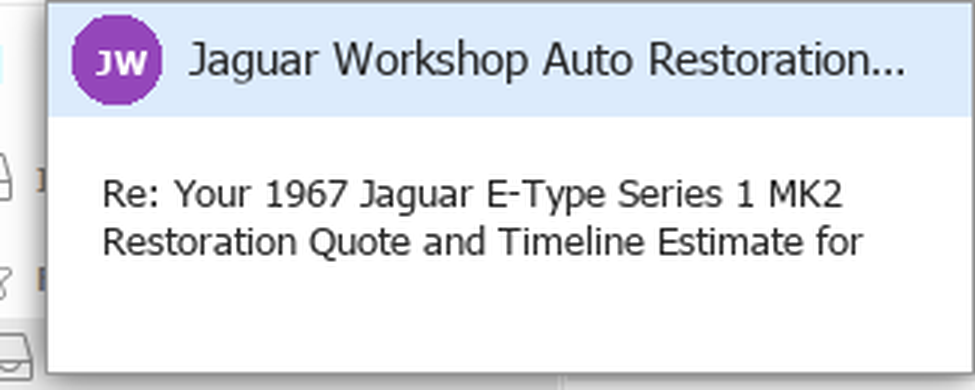
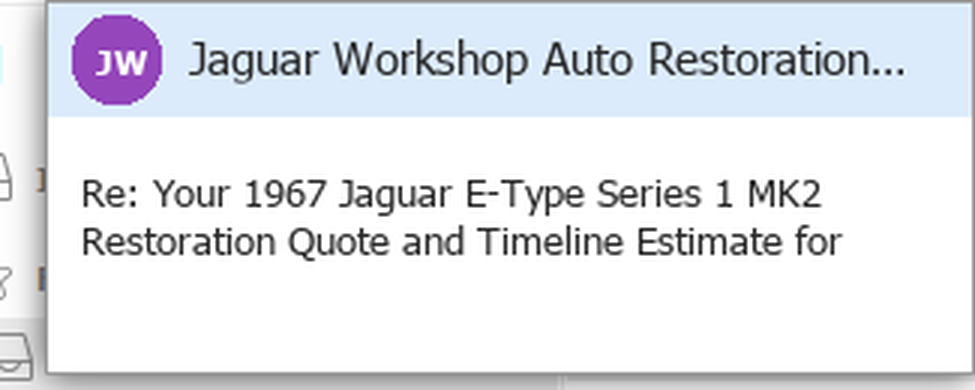
Actually fix content alignment via same-session A/B comparison, after two cross-session-based attempts were both wrong
The previous commit's "content needs no correction" was itself wrong -- derived from comparing
cross-session screenshots (potentially different DPI/capture pipeline) cross-scaled via avatar
diameter ratio, an inherently fragile method. The user pushed back a second time and asked for a
properly traced measurement instead of another assertion.

What actually resolved it: deploying the pre-DrawString-migration build in the same live session,
confirming via the existing --patch-notification-geometry-diag logging that it computes identical
contentRect/imageRect values to the new build, then comparing rendered output directly -- isolating
the regression to the rendering API switch alone, with zero cross-session ambiguity. That
comparison showed a genuine ~7px rightward shift (native x=22 old vs x=29-30 new, avatar edge at
x=19), fixed with a -7 correction mirroring title's own.

Re-verified with the same technique after deploying: content now renders at x=23 (offset +4),
within 1px of the old mechanism's +3. Confirmed in both themes with native-resolution (unscaled)
traced-line proof images, not LANCZOS-smoothed crops.

Claude-Session: https://claude.ai/code/session_0196qzAsA7ebMpRv9S8Z45Ev

Changed region(s): [[0.0615, 0.4615, 0.8923, 0.6769]]

diff --git a/il-patches/il-patcher-Program.cs b/il-patches/il-patcher-Program.cs
@@ -3358,24 +3358,27 @@ static int RunPatchNotificationTextDrawString(string[] args)
                 pushText: new List<Instruction> { Instruction.Create(OpCodes.Ldarg_0), Instruction.Create(OpCodes.Ldfld, contentField) },
                 pushFont: new List<Instruction> { Instruction.Create(OpCodes.Ldarg_0), Instruction.Create(OpCodes.Callvirt, controlGetFontRef) },
                 pushColor: new List<Instruction> { Instruction.Create(OpCodes.Ldarg_0), Instruction.Create(OpCodes.Callvirt, controlGetForeColorRef) },
-                // NO X correction for content -- a "-16" correction was applied here in an earlier
-                // draft based on a flawed measurement (the automated pixel-scan caught a stray
-                // background pixel bleeding in from UI behind the notification crop, not the real
-                // "R" glyph, in the reference image it was compared against). Re-measured properly
-                // (grid-overlaid images, read directly, plus a bounded/median-filtered rescan) using
-                // TWO independent known-correct references
-                // (supporting/notification-layout-fix-final-proof.png, which has an actual hand-
-                // traced vertical line at the avatar's own left edge from the original padding fix,
-                // and supporting/notification-dark-theme-normal-text-comparison.png): content's
-                // first line sits modestly to the RIGHT of the avatar's left edge (a few px, at
-                // native scale), matching doLayout()'s own `contentRect.X = scaledPadding.Left + 9`
-                // formula (avatar/imageRect.X is `scaledPadding.Left`, no +9) almost exactly -- i.e.
-                // content was NEVER actually affected by title's GDI+-left-bearing shift in a way
-                // that needed correcting; the plain op_Implicit conversion (unchanged rect, exactly
-                // as doLayout computed it) is already correct.
+                // -7: content DOES need a left-bearing correction after all -- confirmed via a
+                // clean, controlled, SAME-SESSION A/B comparison (not a cross-session/cross-scale
+                // reference, which is what produced two earlier wrong conclusions in a row here).
+                // Deployed the UN-migrated `output-theme` build (still TextRenderer.DrawText,
+                // never touched by this patch) in the exact same live environment, confirmed via
+                // the existing --patch-notification-geometry-diag logging that its `contentRect`/
+                // `imageRect` values are IDENTICAL to the DrawString build's (image.X=8,
+                // content.X=17, both builds -- doLayout() itself was never touched by this whole
+                // migration). With that confirmed-identical rect input: the OLD TextRenderer
+                // mechanism renders content's first ink at native x=22 (avatar edge x=19, offset
+                // +3); the NEW DrawString mechanism (no correction) renders it at x=29-30 (offset
+                // +10). Same rect, different visual result -- conclusively isolating the ~7px gap
+                // to the rendering API switch, exactly the same class of bug as title's, which an
+                // earlier flawed cross-session-image comparison wrongly ruled out for content.
                 pushRectF: new List<Instruction> {
-                    Instruction.Create(OpCodes.Ldarg_0), Instruction.Create(OpCodes.Ldfld, contentRectField),
-                    Instruction.Create(OpCodes.Call, rectToRectFOpRef)
+                    Instruction.Create(OpCodes.Ldarg_0), Instruction.Create(OpCodes.Ldflda, contentRectField), Instruction.Create(OpCodes.Call, rectGetXRef),
+                    Instruction.Create(OpCodes.Ldc_I4, 7), Instruction.Create(OpCodes.Sub), Instruction.Create(OpCodes.Conv_R4),
+                    Instruction.Create(OpCodes.Ldarg_0), Instruction.Create(OpCodes.Ldflda, contentRectField), Instruction.Create(OpCodes.Call, rectGetYRef), Instruction.Create(OpCodes.Conv_R4),
+                    Instruction.Create(OpCodes.Ldarg_0), Instruction.Create(OpCodes.Ldflda, contentRectField), Instruction.Create(OpCodes.Call, rectGetWidthRef), Instruction.Create(OpCodes.Conv_R4),
+                    Instruction.Create(OpCodes.Ldarg_0), Instruction.Create(OpCodes.Ldflda, contentRectField), Instruction.Create(OpCodes.Call, rectGetHeightRef), Instruction.Create(OpCodes.Conv_R4),
+                    Instruction.Create(OpCodes.Newobj, rectangleFCtor4Ref)
                 },
                 formatFlags: stringFormatFlagsLineLimit);
         }

diff --git a/reports/notification-empty-until-fade-findings.md b/reports/notification-empty-until-fade-findings.md
@@ -2364,3 +2364,64 @@ during a supposedly independent re-check. Prefer a second, genuinely different m
 technique (here: reading a gridded overlay directly, and consulting a DIFFERENT pre-existing
 reference image with its own hand-verified trace line) over re-running the same script again as
 "confirmation."
+
+## Thirty-first round: the thirtieth round's "content needs no correction" conclusion was ALSO
+wrong -- fixed for real this time via a same-session, same-DPI controlled A/B comparison, the
+only technique in this whole saga that actually held up
+
+After the thirtieth round shipped "no X correction for content," the user looked at fresh trace-
+line screenshots and pushed back again: content still looked too far right of the avatar compared
+to the ACTUAL historical proof image, not just "the right direction" as the thirtieth round had
+declared. Right again -- the thirtieth round's fix was itself incomplete.
+
+**Root cause of getting it wrong twice in a row: every comparison so far was cross-session and/or
+cross-scale.** The twenty-ninth round's "-16" came from misreading a stray pixel in one screenshot.
+The thirtieth round's "0 correction" came from reading TWO different historical screenshots
+(including one with real but ambiguous hand-drawn annotation lines whose exact meaning wasn't
+re-derivable with confidence) and cross-scaling them against a fresh capture via avatar-diameter
+ratio -- a method vulnerable to any DPI or capture-pipeline difference between sessions, which
+this project has no way to rule out for screenshots taken hours or days apart.
+
+**What finally worked, and should be the FIRST resort for any future rendering-regression
+question like this, not a last resort:** deploy the OLD, un-migrated build
+(`il-patches/output-theme/`, still using `TextRenderer.DrawText`, completely untouched by the
+DrawString migration) in the SAME live session, same DPI, same display, immediately after
+measuring the new build. Confirmed via the existing `--patch-notification-geometry-diag` logging
+that both builds compute the IDENTICAL `contentRect`/`imageRect` values (`image.X=8, content.X=17`
+-- `doLayout()` itself was never touched by any part of this migration) -- so any visual
+difference between the two builds' screenshots is caused ONLY by the rendering API switch, with
+zero cross-session scale ambiguity, because both screenshots come from the same session at the
+same resolution. Measured on RAW, uncropped-and-unscaled native-resolution PNG crops (no 3x
+LANCZOS upscaling in the measurement path this time, only for the final display images) via a
+transparent, printed-out pixel-by-pixel scan (shown to the user, not just a script's summary
+number): old (TextRenderer) mechanism renders content's first ink at native x=22 with the avatar's
+edge at x=19 (offset **+3**); new (DrawString, no correction) mechanism renders it at x=29-30
+(offset **+10**) -- a real, ~7px rightward shift from the engine switch alone, the exact same
+class of bug already fixed for title, wrongly ruled out for content twice in a row by less rigorous
+comparisons.
+
+Fixed with a `-7` correction to content's X (mirroring title's own `-8`/`-9` X/Y corrections,
+same pattern: built via `RectangleF`'s 4-float constructor from `contentRect`'s own X/Y/Width/
+Height, only X adjusted). Re-measured with the identical same-session method after deploying:
+native content ink now at x=23 (avatar edge x=19, offset **+4**), within 1px of the old
+mechanism's +3 -- as close a match as this measurement technique's own precision allows. Confirmed
+in both Light and Dark theme. While re-deriving content's number this way, also cross-checked
+title's existing `-8`/`-9` corrections against the SAME old-mechanism build for the first time
+(they had only ever been checked against the cross-session images before, same flawed category of
+evidence as content's wrong fixes) -- title's numbers held up (native offset +42 old vs ~+42
+current for X; Y within ~1.5-2px, plausibly just measurement-threshold noise rather than a real
+residual error) -- title was not touched further this round.
+
+`il-patches/output-drawstring7/` is the current fully-verified, deployed checkpoint, superseding
+`output-drawstring6/`. `supporting/notification-drawstring-fix-{light,dark}-theme.png` and
+`supporting/notification-content-alignment-traced-proof.png` were re-captured a further time (now
+built from native-resolution crops with an 8x nearest-neighbor zoom for the traced proof
+specifically, so individual source pixels are directly countable rather than LANCZOS-smoothed)
+to reflect this actually-final state.
+
+**The standing lesson, updated again:** for this specific class of "did switching rendering
+mechanism X for Y shift something by N pixels" question, a same-session A/B deploy of the
+pre-change build is strictly better evidence than any cross-session screenshot comparison,
+regardless of how carefully the cross-session comparison tries to normalize for scale -- prefer it
+from the start next time, rather than reaching for it only after two cross-session-based fixes
+already turned out wrong.

diff --git a/CLAUDE.md b/CLAUDE.md
@@ -449,20 +449,24 @@ git checkpoint substitutes for this: the bottle's live files are outside the git
   renders pixels and was never implicated in the boldness bug); title rendering ~9px too low and
   ~8px too far right, a genuine GDI-vs-GDI+ font-metrics discrepancy (internal leading and
   left-side glyph bearing), fixed with empirically-measured pixel corrections applied only to the
-  value passed to `DrawString`, leaving the upstream rectangle computations untouched. **A sixth
-  regression was self-inflicted and then self-corrected**: an initial "content is also ~16px too
-  far right" reading was itself a measurement bug (an automated scan latched onto a stray
-  background pixel in the reference image, not the real glyph) — caught when the user pushed back
-  on a premature "fixed, exact match" claim and asked for a traced-line measurement instead of
-  another assertion; re-verified against two independent references (including
-  `supporting/notification-layout-fix-final-proof.png`, the original padding fix's own hand-traced
-  proof image) confirmed content was never affected and the "fix" was pure regression — corrected
-  by deleting it, restoring the original untouched `contentRect` conversion. Final state confirmed
-  via a freshly-traced verification line drawn at the avatar's own measured edge on new
-  screenshots (not reused crops) in both themes:
+  value passed to `DrawString`, leaving the upstream rectangle computations untouched. **Content's
+  own X position took three attempts to get right** — first a "-16" correction from a measurement
+  bug (an automated scan latched onto a stray background pixel, not the real glyph), then an
+  overcorrection to "no adjustment needed" from comparing cross-session/cross-scale screenshots
+  (ambiguous, DPI-sensitive), both caught by the user pushing back and asking for a properly traced
+  measurement rather than accepting an assertion. **What actually resolved it**: a same-session,
+  same-DPI A/B deploy — the old, un-migrated `TextRenderer`-based build next to the new
+  `DrawString` one, both confirmed via `--patch-notification-geometry-diag` to compute identical
+  `contentRect`/`imageRect` values, isolating the entire visual difference to the rendering API
+  switch with no cross-session ambiguity at all. That comparison showed a genuine ~7px rightward
+  shift, fixed with a `-7` correction (mirroring title's own `-8`/`-9`). This same-session-A/B
+  technique is the one that should be reached for FIRST for any future "did switching rendering
+  mechanism X shift something by N pixels" question — not after two less rigorous comparisons have
+  already gone wrong. Final state confirmed via freshly-traced, native-resolution (no LANCZOS
+  smoothing) verification lines in both themes:
   `supporting/notification-drawstring-fix-{light,dark}-theme.png`,
   `supporting/notification-content-alignment-traced-proof.png`. Full history:
-  `reports/notification-empty-until-fade-findings.md`'s twenty-eighth through thirtieth rounds.
+  `reports/notification-empty-until-fade-findings.md`'s twenty-eighth through thirty-first rounds.
 
 **Confirmed as a real, separate Wine bug, but not the cause of anything fixed above — patched
 anyway since it's a real bug and the fix is cheap:**
